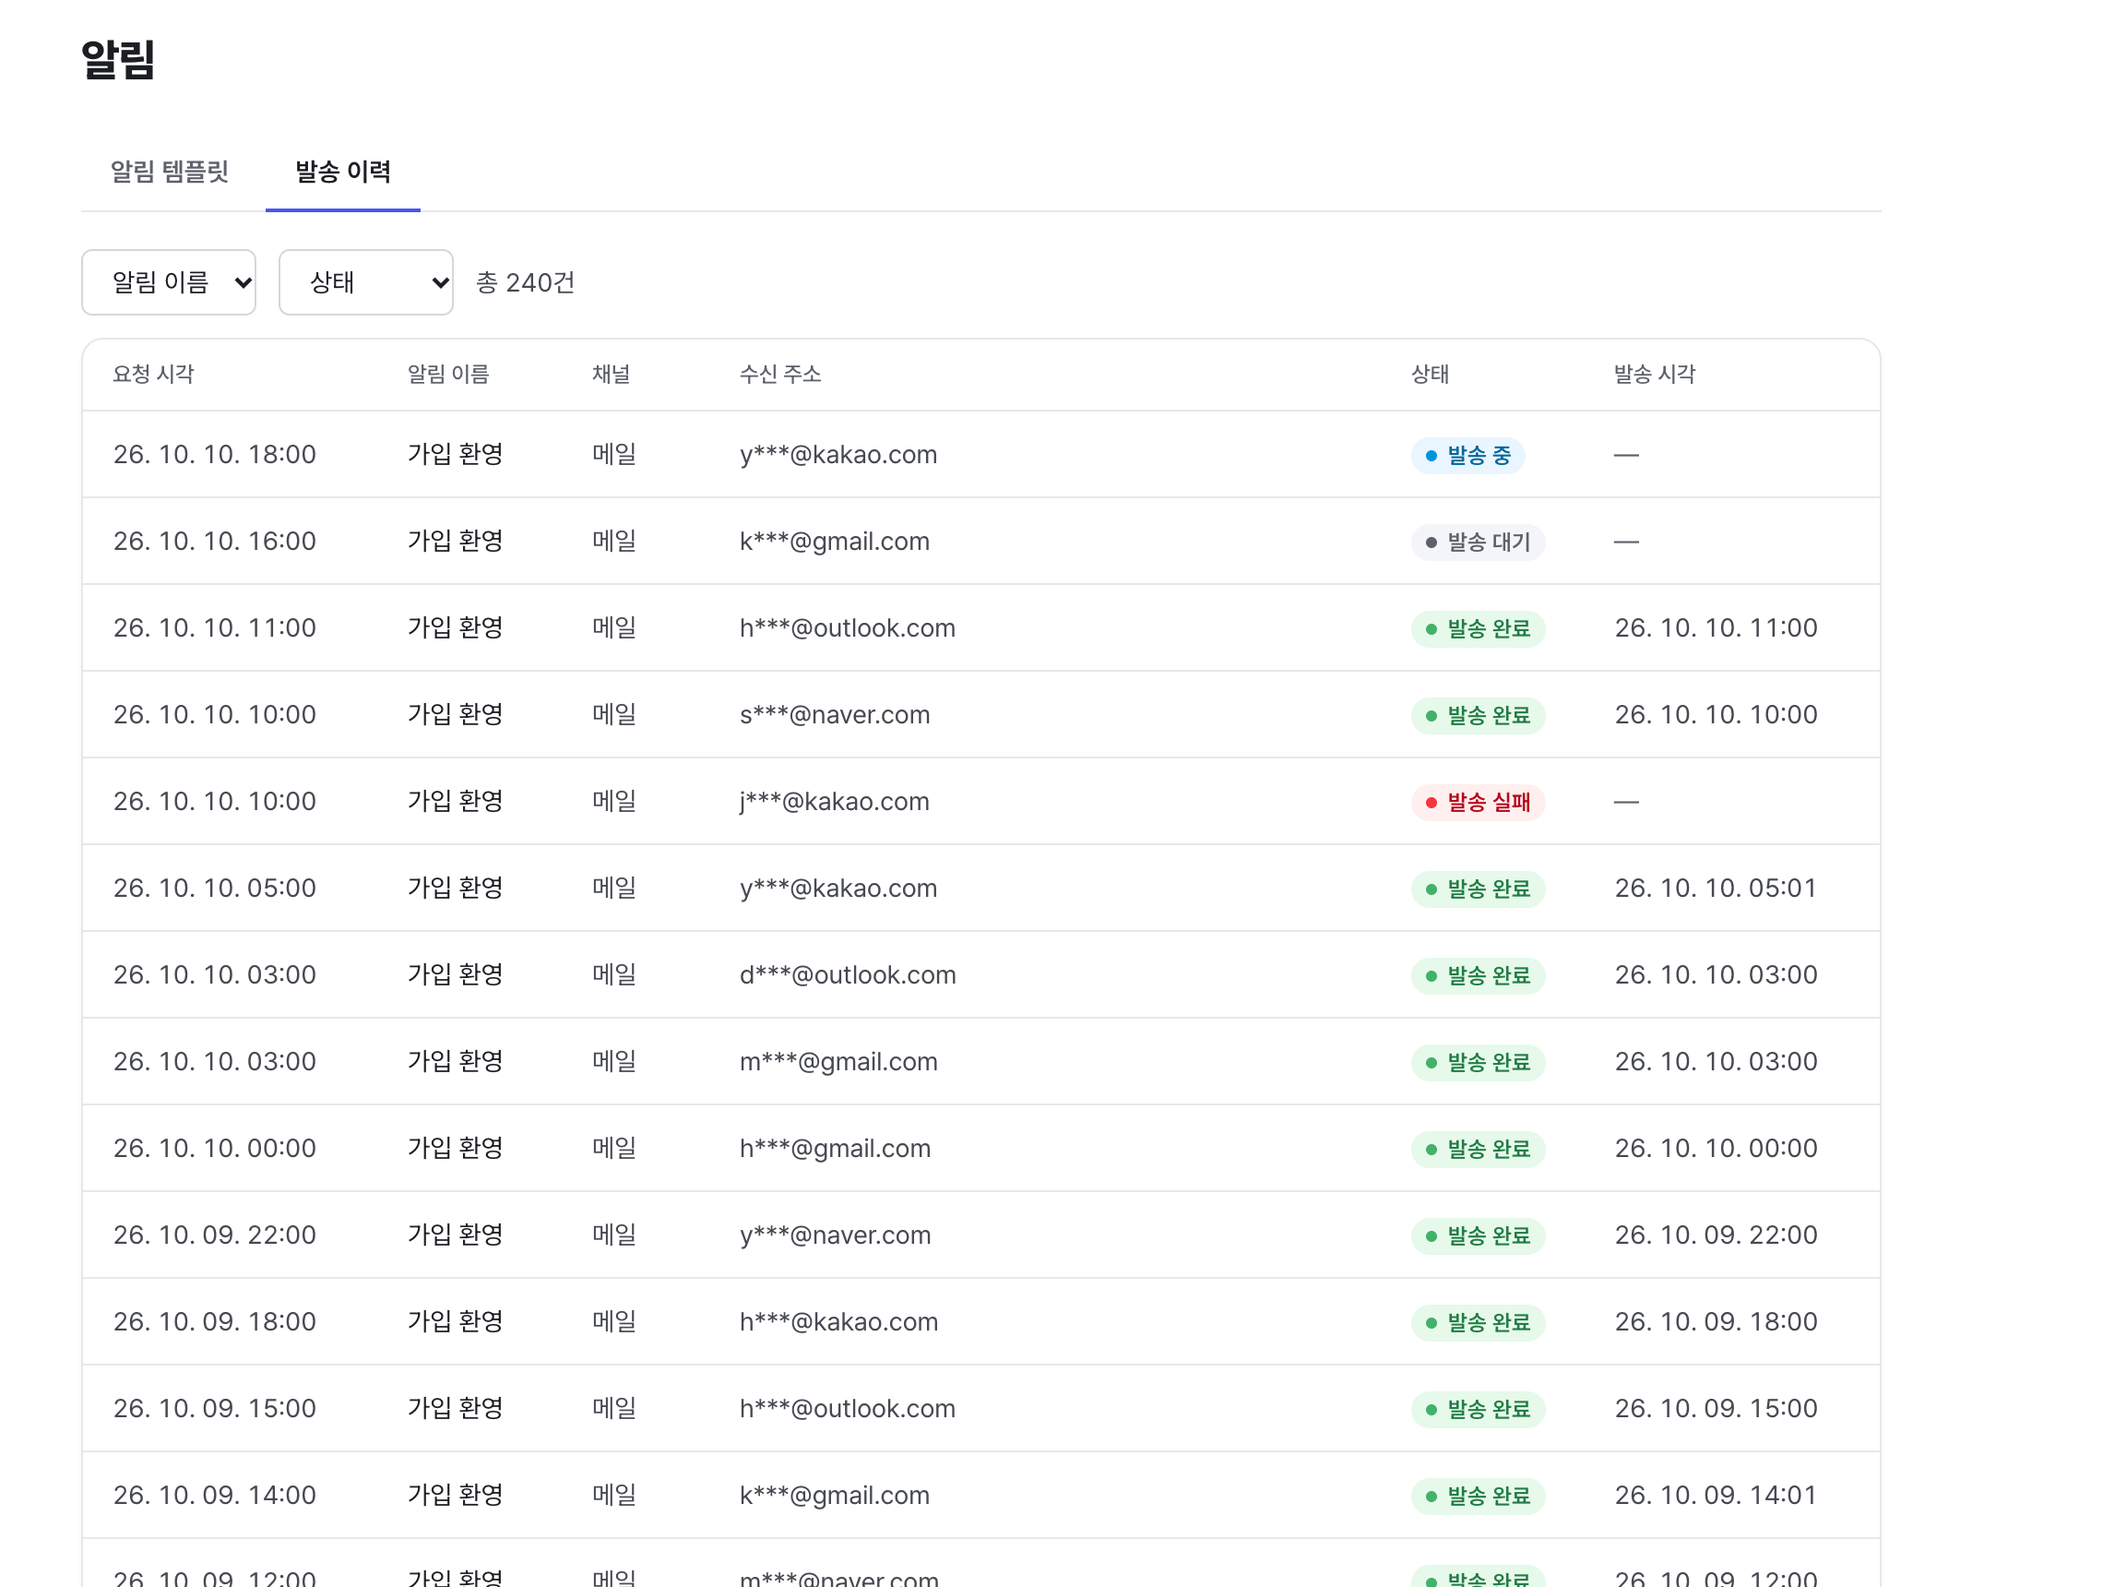
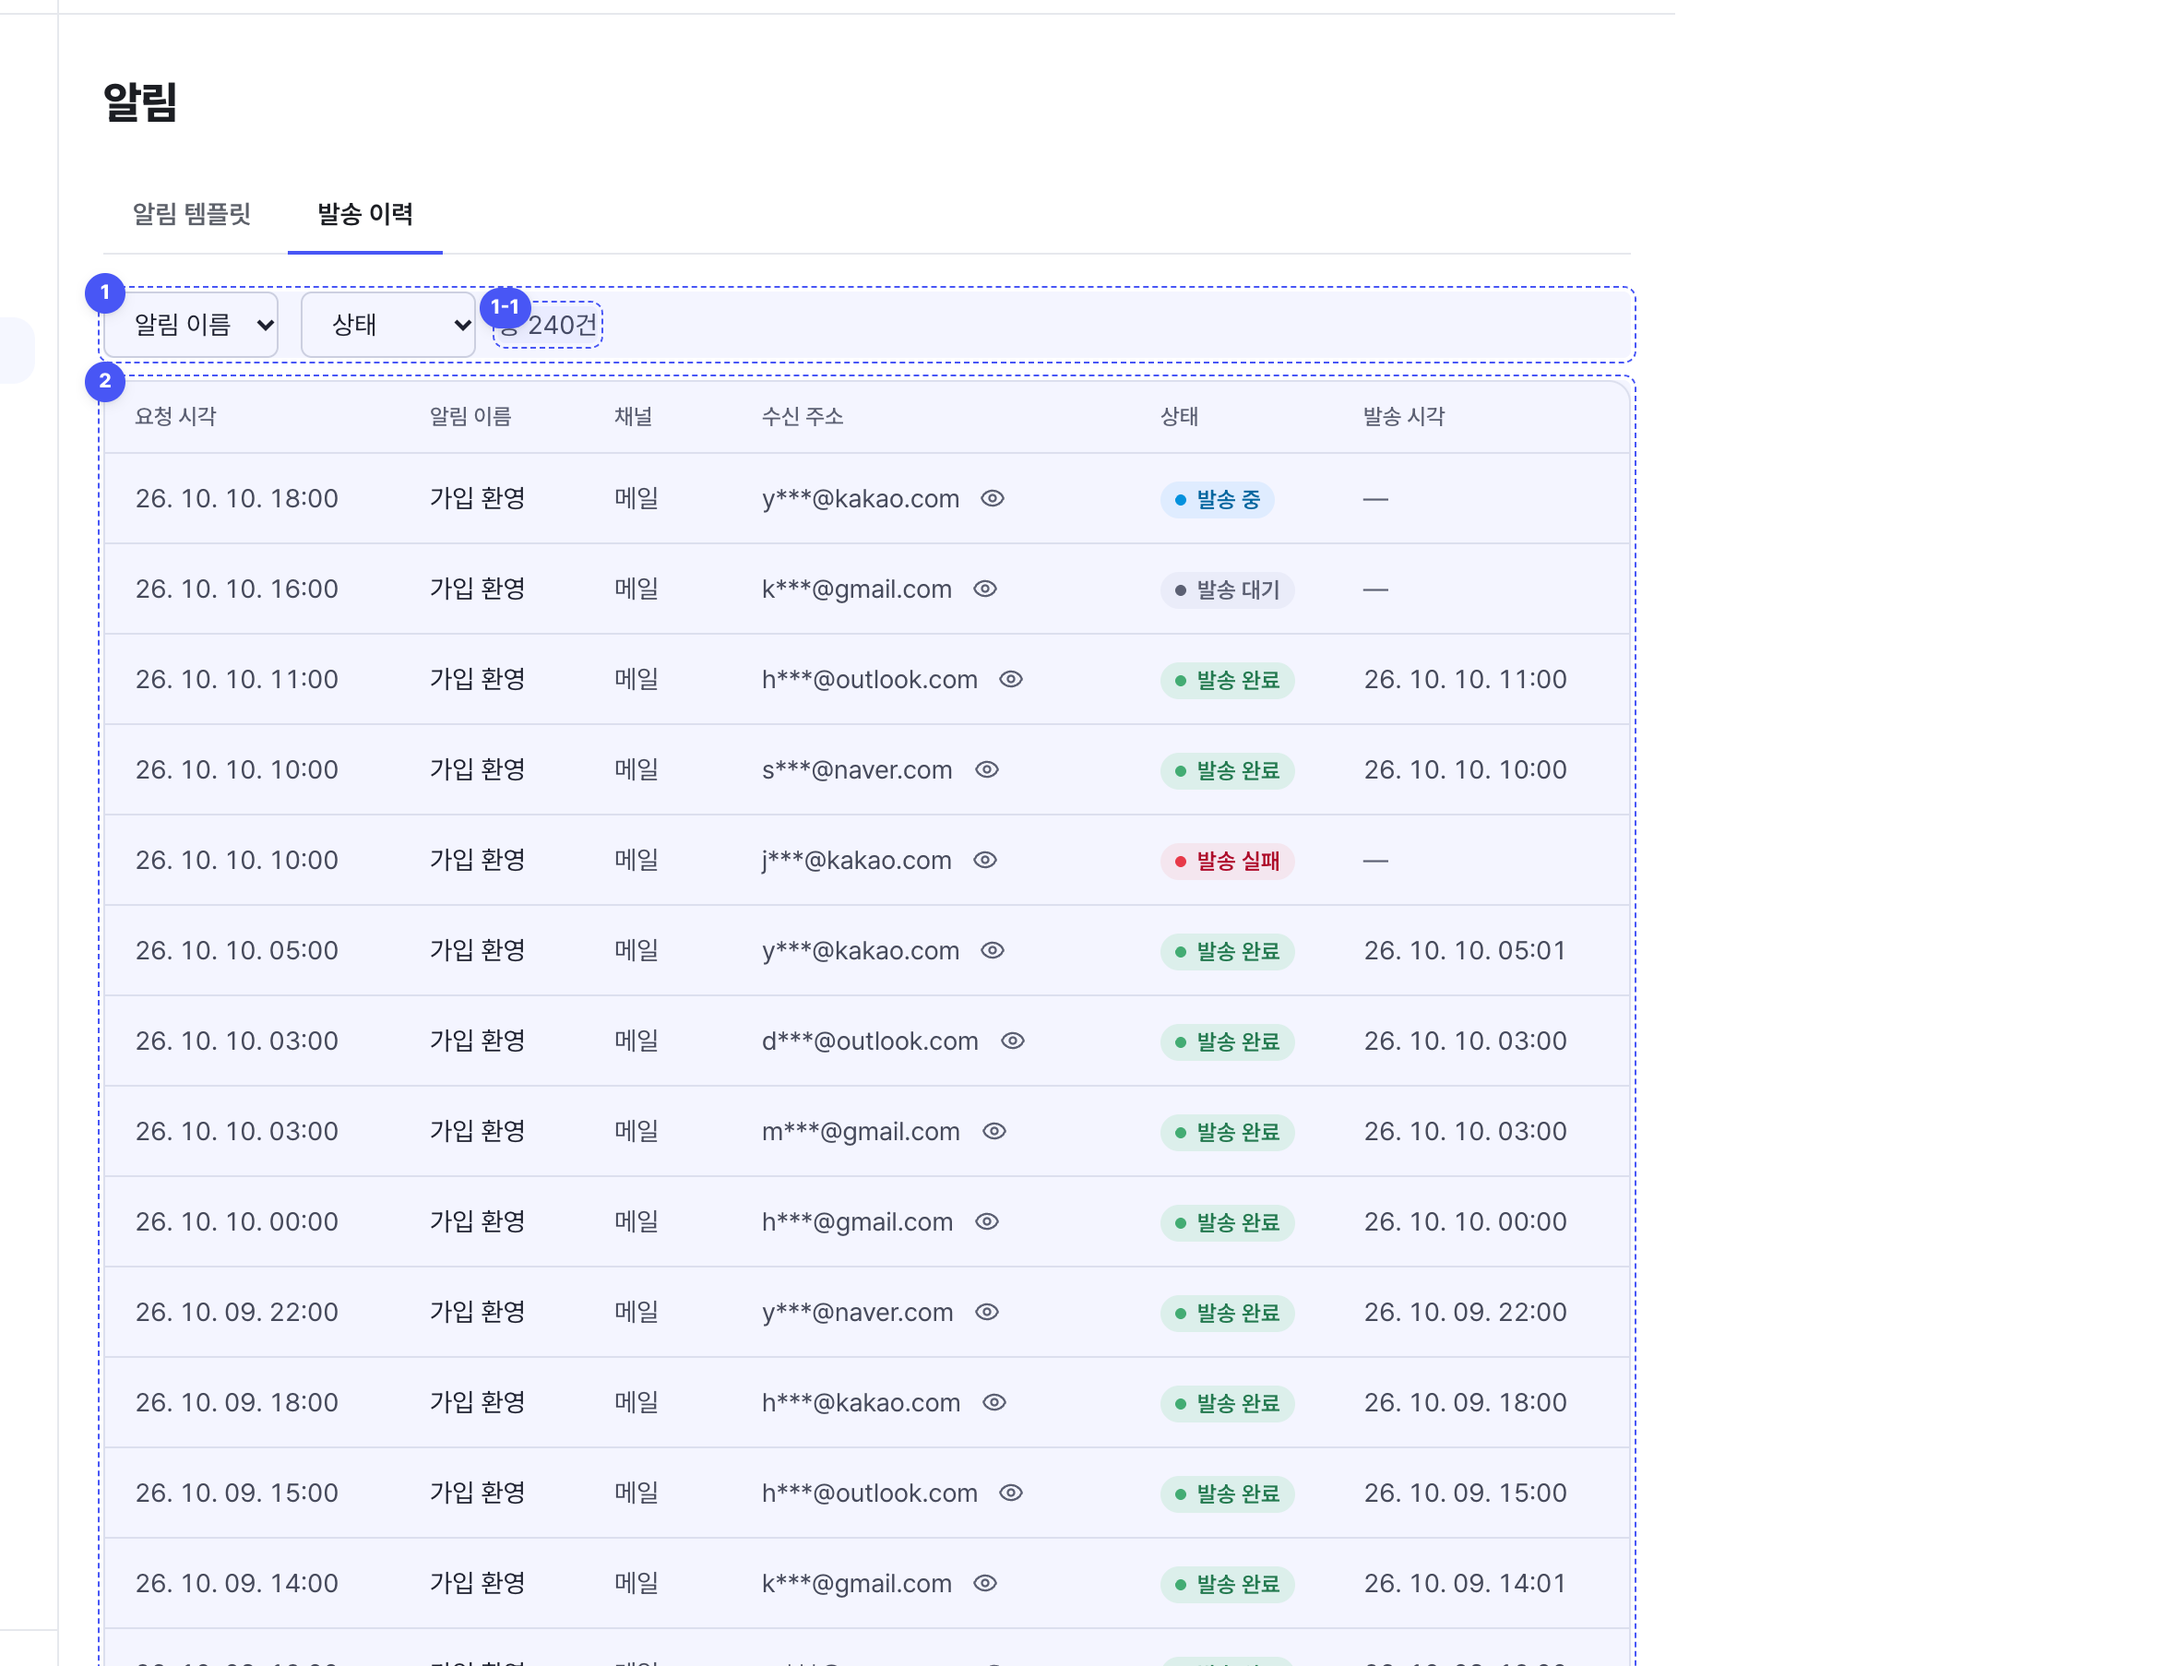
docs(planning): 알림 PRD 캡처를 번호 배지가 얹힌 것으로
화면명세 맨 앞에는 번호 배지가 붙은 캡처 한 장이 와야 명세의 1·2·3 이 화면의 어디를
가리키는지 알 수 있다. 배지 없는 맨 화면이었다.

- 템플릿·발송 이력 각각 설명 보기를 켠 상태로 다시 찍는다
- 배지 없던 추가 창 캡처는 뺀다 — 추가 창은 2-1 로 명세가 말한다

Claude-Session: https://claude.ai/code/session_01NjEH5cUZD5n1wEibL8yXzS

diff --git a/01-planning/stories/notification-admin/PRD.md b/01-planning/stories/notification-admin/PRD.md
@@ -44,8 +44,6 @@ flowchart LR
 
 ![알림 템플릿](https://raw.githubusercontent.com/StudyClub-PlusPlus/studyclub-engineering/beta/01-planning/stories/notification-admin/assets/templates.png)
 
-![템플릿 추가](https://raw.githubusercontent.com/StudyClub-PlusPlus/studyclub-engineering/beta/01-planning/stories/notification-admin/assets/template-add.png)
-
 <!-- spec:start template -->
 
 > 문구를 **보고 더한다.** 고치는 길은 아직 없다 — 편집 API 가 없다
